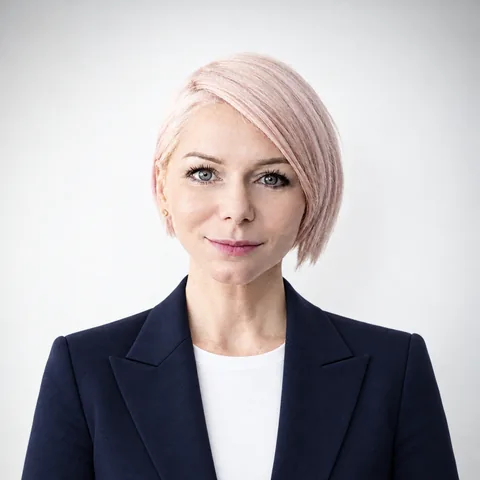
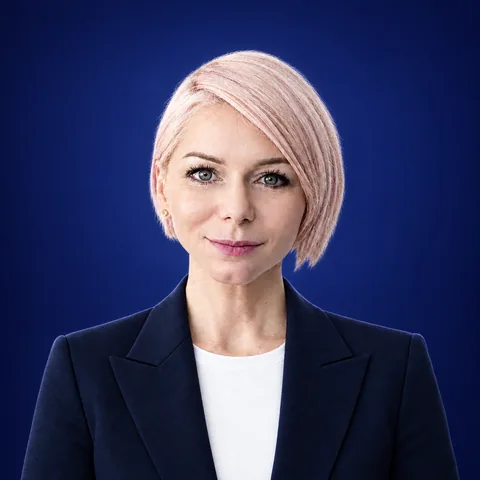
av22: Настя — новое лицо проводника (кэш ?v=3), приглушение голоса при речи человека, тёмно-синий фон портрета (выложено 21.10 23:37)

diff --git a/frontend/src/components/InteractiveAvatarTour.tsx b/frontend/src/components/InteractiveAvatarTour.tsx
@@ -390,7 +390,7 @@ export function InteractiveAvatarTour() {
         <button type="button" onClick={() => begin(pitchFlag() ? "pitch" : undefined)} data-testid="floating-avatar-concierge"
           className="group flex items-center gap-3 rounded-full bg-[#120E24]/95 py-2 pl-2 pr-4 text-left text-white shadow-xl ring-1 ring-white/15 backdrop-blur transition hover:-translate-y-0.5 hover:ring-white/30">
           <span className="relative h-12 w-12 shrink-0">
-            <img src="/avatar/guide.webp" alt="" aria-hidden="true" className="h-12 w-12 rounded-full object-cover" />
+            <img src="/avatar/guide.webp?v=3" alt="" aria-hidden="true" className="h-12 w-12 rounded-full object-cover" />
             <span className="absolute bottom-0.5 right-0.5 h-3 w-3 rounded-full bg-emerald-400 ring-2 ring-[#120E24]" />
           </span>
           <span className="pr-1">
@@ -454,10 +454,10 @@ export function InteractiveAvatarTour() {
         }}>
         <div className="relative h-full w-full">
           {noVideoFlag()
-            ? <img src="/avatar/guide.webp" alt="" aria-hidden="true" className="absolute inset-0 h-full w-full object-cover" data-testid="avatar-novideo" />
+            ? <img src="/avatar/guide.webp?v=3" alt="" aria-hidden="true" className="absolute inset-0 h-full w-full object-cover" data-testid="avatar-novideo" />
             : <AnamAvatar ref={anamRef} sessionId="concierge-elena" tokenPath={`/interview/concierge/avatar-token?sid=${encodeURIComponent(eng?.sid ?? "")}${param("expr") ? `&expr=${param("expr")}` : ""}`}
               state={ui.speaking ? "speaking" : wave} level={() => engineRef.current?.voice.level() ?? 0} name="Настя" fill
-              poster="/avatar/guide.webp" />}
+              poster="/avatar/guide.webp?v=3" />}
 
           {ui.stepTotal > 0 && (
             <div className="pointer-events-none absolute left-4 right-24 top-4 flex gap-1" aria-hidden="true" data-testid="elena-progress">

diff --git a/frontend/src/components/elena/engine.ts b/frontend/src/components/elena/engine.ts
@@ -356,6 +356,7 @@ export class ElenaEngine {
   private gateUntil = 0;                // микрофон закрыт до этого момента после конца её фразы
   private gateOpenedAt = 0;
   private gated = true;
+  private duckAt = 0;   // когда приглушили её голос под реплику человека
   private wasSpeaking = false;
   private lastSpeechStart = 0;          // человек начал говорить (событие поставщика) при открытом микрофоне
   // обзор
@@ -460,7 +461,7 @@ export class ElenaEngine {
       if (hearing !== this.ui.hearing) this.set({ hearing });
       const listen = !s && !this.thinking && this.listenOpen() ? "open" : "wake";
       if (listen !== this.ui.listen) this.set({ listen });
-      if (this.ducked && (!s || !this.buf.read())) { this.ducked = false; this.voice.duck(false); }
+      if (this.ducked && (!s || (!this.buf.read() && performance.now() - this.duckAt > 2500))) { this.ducked = false; this.voice.duck(false); }
     }, 100);
   }
 
@@ -948,7 +949,11 @@ export class ElenaEngine {
         if (busy || !this.listenOpen()) {
           const wake = !(busy && hers && /наст/i.test(hers)) && WAKE.test(text);
           const quiet = !busy && words(text).length <= 4 && QUIET_COMMAND.test(words(text).join(" "));
-          if (!wake && !quiet) return;
+          if (!wake && !quiet) {
+            // человек заговорил под её речь (не эхо, не «угу») — приглушаем её, чтобы «Настя» услышалась без крика (22:08)
+            if (this.voice.speaking() && !this.ducked) { this.ducked = true; this.duckAt = performance.now(); this.voice.duck(true); }
+            return;
+          }
           if (wake) this.onWake(text);
         }
       }

diff --git a/backend/app/modules/interview/concierge.py b/backend/app/modules/interview/concierge.py
@@ -54,7 +54,7 @@ ANAM_EXPRESSIVITY = float(os.environ.get("CONCIERGE_ANAM_EXPRESSIVITY", "0.2"))
 # улыбка исходного кадра манерой не гасится). Создан 20.10.2026 через POST /v1/avatars (one-shot, cara-4);
 # происхождение — frontend/public/avatar/PROVENANCE.md. Пусто — общий аватар интервьюера (ANAM_AVATAR_ID).
 # 21.10 23:00 владелец: новое лицо (белая майка, премиальный пиджак) eeabad62…; откат — прежнее d7d4dd15-e996-4595-ad73-7b77b22e53ec
-ANAM_AVATAR_ID = os.environ.get("CONCIERGE_ANAM_AVATAR_ID", "eeabad62-299c-4409-a230-c559bf7ea1b7").strip()
+ANAM_AVATAR_ID = os.environ.get("CONCIERGE_ANAM_AVATAR_ID", "78dbf4dc-e850-47a9-873f-e49f2c56f05e").strip()  # 23:15: тот же портрет на тёмно-синем фоне (v3); v2 белый фон — eeabad62-299c-4409-a230-c559bf7ea1b7
 # Потолок одного разговора в минутах: по его истечении Настя прощается и закрывается (стенд открыт всем, минуты платные)
 MAX_MINUTES = float(os.environ.get("CONCIERGE_MAX_MINUTES", "0"))   # 0 — без потолка (владелец: можно просто нажать снова)
 

diff --git a/frontend/public/avatar/PROVENANCE.md b/frontend/public/avatar/PROVENANCE.md
@@ -43,3 +43,4 @@
 | `guide.webp` | 480×480, портрет nastya_v2 (сгенерированный, правка gpt_image_2_5_flare: белая майка, премиальный пиджак) из elena_work/avatar_after_final/nastya_portrait_v1_1254.png | Anam one-shot аватар eeabad62-299c-4409-a230-c559bf7ea1b7 ("Nastya Draft v2") | 2026-10-21 |
 
 Откат: прежний guide.webp и id d7d4dd15-e996-4595-ad73-7b77b22e53ec — /opt/spectrek_fsp/elena_work/avatar_rollback_20261021/.
+| `guide.webp` (v3, 21.10 23:15) | тот же портрет на тёмно-синем фоне (правка gpt_image_2_5_flare) | Anam one-shot 78dbf4dc-e850-47a9-873f-e49f2c56f05e ("Nastya Draft v3 navy") | 2026-10-21 |
